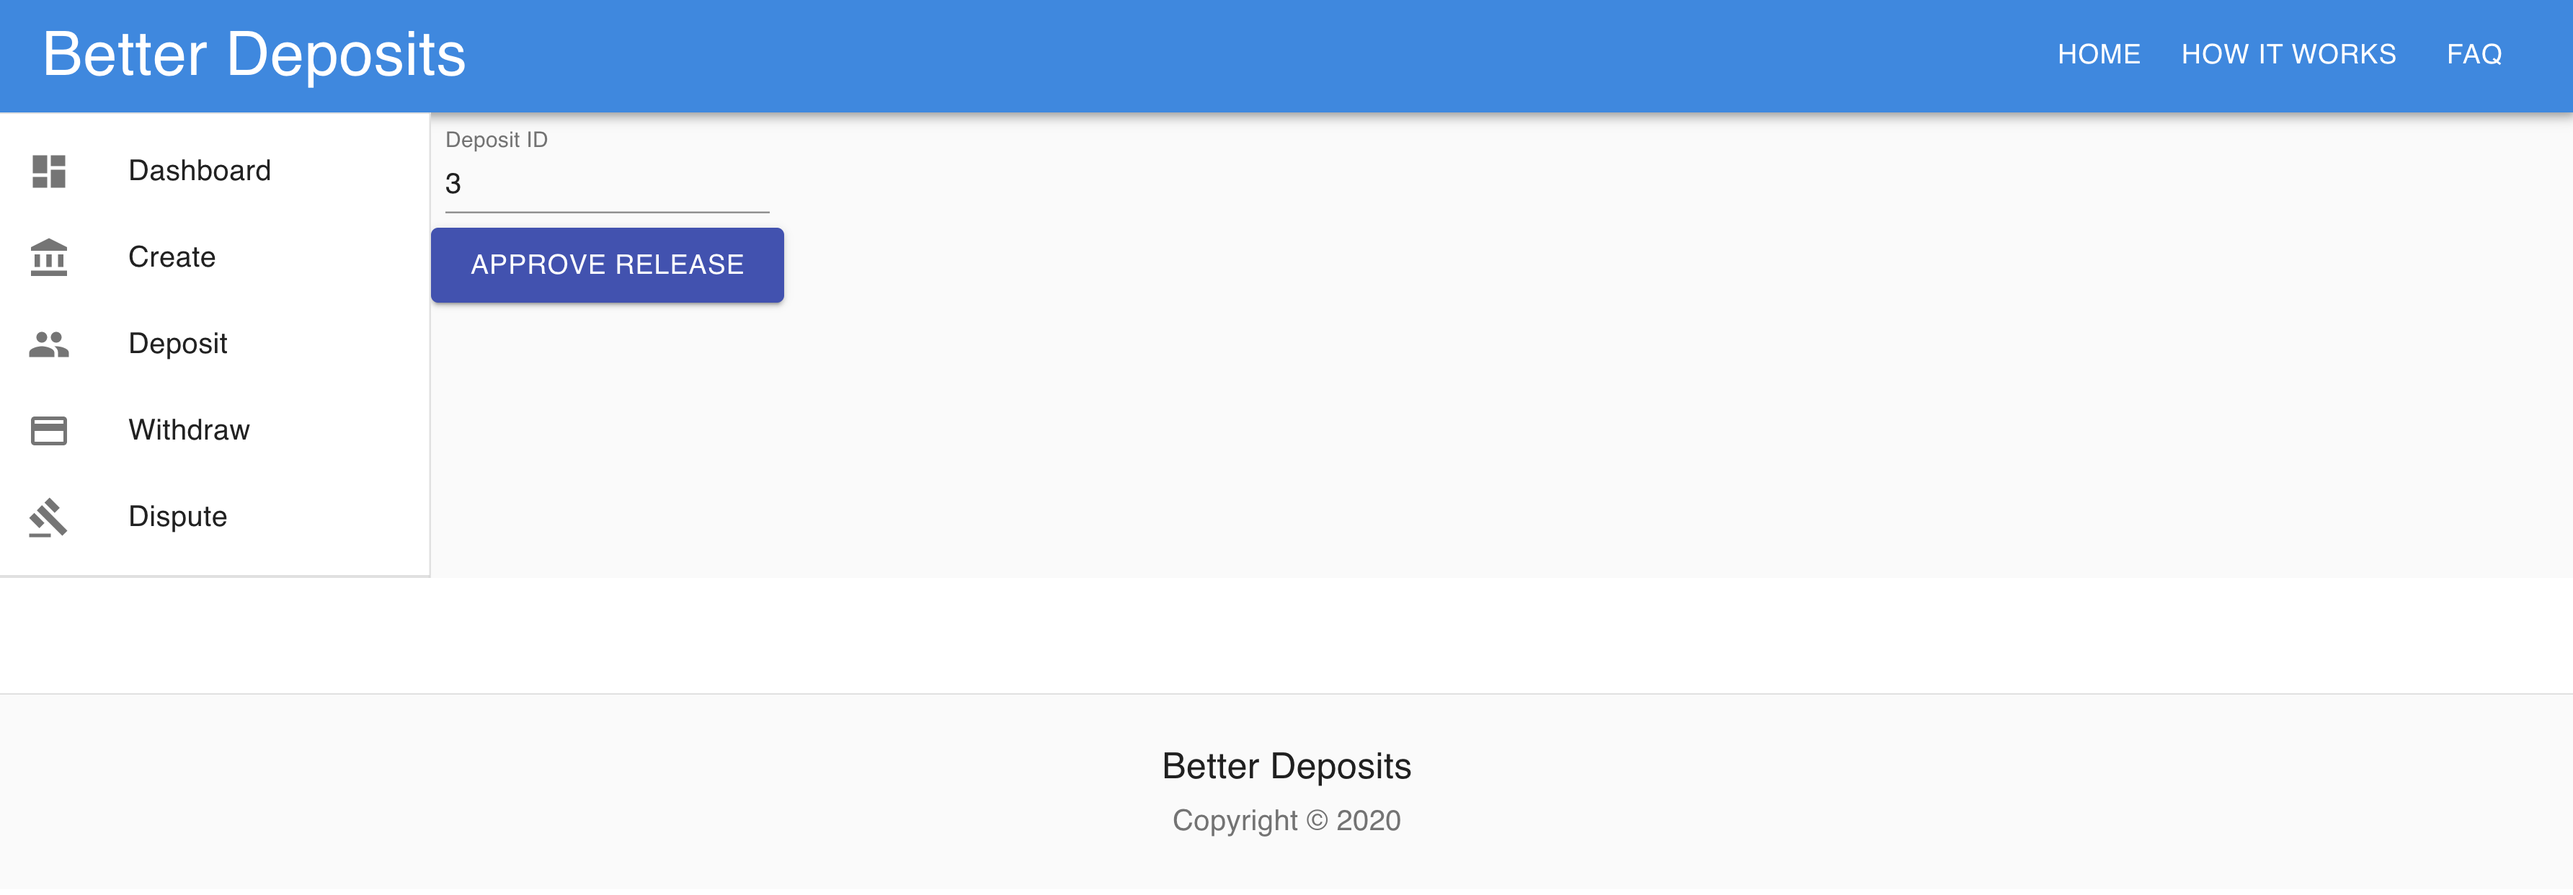
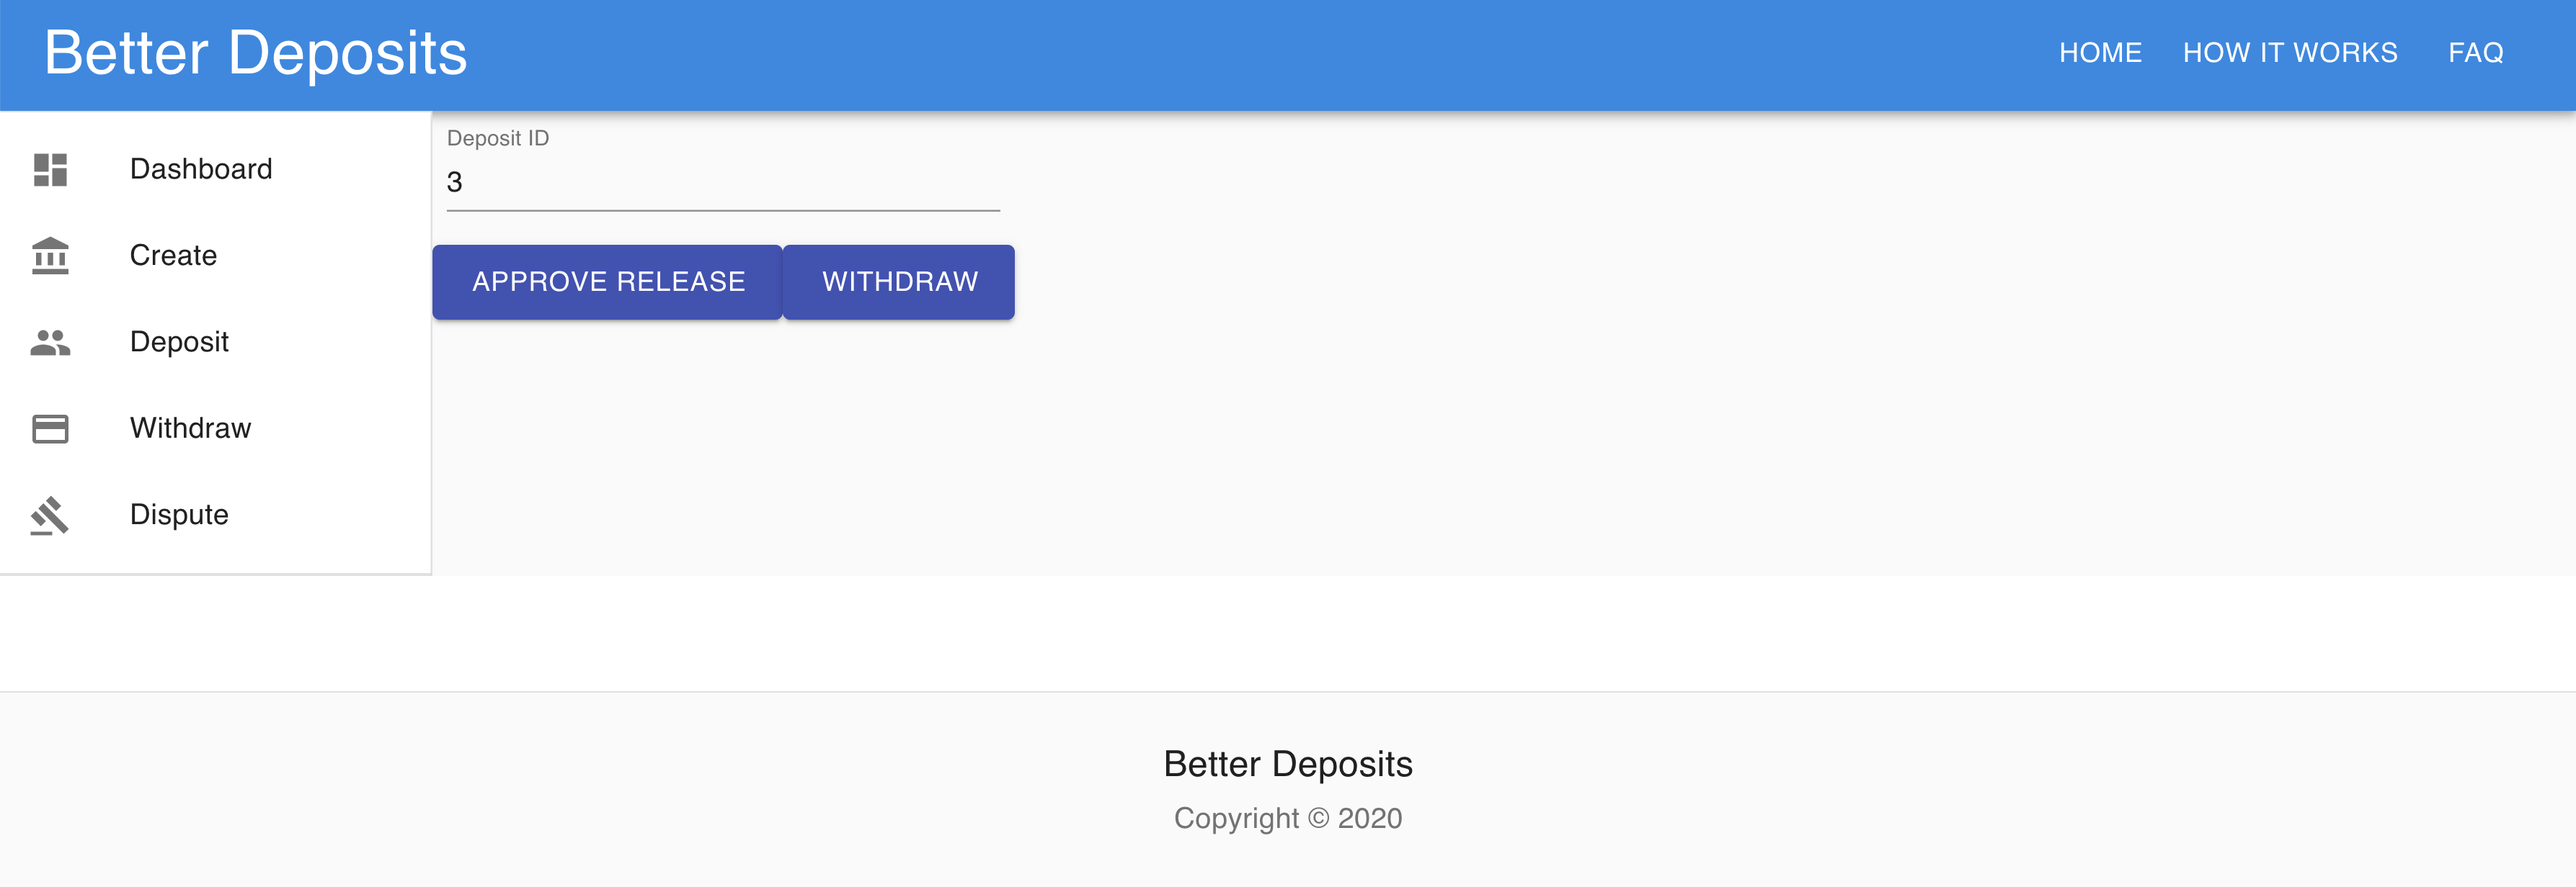
feat: add withdraw deposit functionality

diff --git a/packages/app/src/components/website/getStartedSection/Explainer.tsx b/packages/app/src/components/website/getStartedSection/Explainer.tsx
@@ -18,9 +18,9 @@ export default function GetStarted() {
                   1. Agree escrow
                 </Typography>
                 <Typography variant="body1" color="textSecondary">
-                  Untrusting parties want to make an agreement and escrow funds.
-                  They agree on the terms of the escrow: value, duration, third
-                  party adjudicator.
+                  Two parties (e.g. tenant and landlord) want to make an
+                  agreement and lock up a deposit for a period of time. They
+                  agree on: value, duration, third party adjudicator.
                 </Typography>
               </div>
             </Grid>
@@ -30,8 +30,9 @@ export default function GetStarted() {
                   2. Deposit funds into smart contract
                 </Typography>
                 <Typography variant="body1" color="textSecondary">
-                  Deposit escrow funds to the smart contract. Funds are now
-                  locked until the escrow expiry.
+                  Parties transfer the deposit funds to BetterDeposits financial
+                  software - a smart contract. Funds are now locked until the
+                  expiry.
                 </Typography>
               </div>
             </Grid>
@@ -41,7 +42,7 @@ export default function GetStarted() {
                   3. Settle escrow or raise dispute
                 </Typography>
                 <Typography variant="body1" color="textSecondary">
-                  At end of escrow, if parties are happy then deposits are
+                  At end of deposit, if parties are happy then deposits are
                   returned. If not, the nominated third party adjudicator
                   settles the dispute.
                 </Typography>

diff --git a/packages/app/src/components/escrowApp/withdrawal/WithdrawTable.tsx b/packages/app/src/components/escrowApp/withdrawal/WithdrawTable.tsx
@@ -39,6 +39,10 @@ export default function WithdrawalTable({
     escrowContract.approveDepositRelease(escrowId);
   };
 
+  const withdrawDeposit = (escrowId: bigint) => {
+    escrowContract.withdraw(escrowId);
+  };
+
   return (
     <div>
       <div className={classes.root}>
@@ -55,14 +59,34 @@ export default function WithdrawalTable({
         </FormControl>
       </div>
       <Grid container direction="row" justify="center" alignItems="center">
-        <Button
-          variant="contained"
-          color="primary"
-          size="large"
-          onClick={() => approveDepositRelease(escrowId)}
-        >
-          Approve release
-        </Button>
+        <Grid>
+          <Button
+            variant="contained"
+            color="primary"
+            size="large"
+            onClick={() => approveDepositRelease(escrowId)}
+            style={{
+              marginTop: '10px',
+              paddingRight: '20px',
+            }}
+          >
+            Approve release
+          </Button>
+        </Grid>
+        <Grid>
+          <Button
+            variant="contained"
+            color="primary"
+            size="large"
+            onClick={() => withdrawDeposit(escrowId)}
+            style={{
+              marginTop: '10px',
+              paddingRight: '20px',
+            }}
+          >
+            Withdraw
+          </Button>
+        </Grid>
       </Grid>
     </div>
   );

diff --git a/packages/app/src/components/website/productSection/index.tsx b/packages/app/src/components/website/productSection/index.tsx
@@ -1,7 +1,8 @@
 import React from 'react';
 import { useStyles } from '../../useStyles';
-import DashboardImage from './Dashboard.png';
+import DashboardImage from '../../../images/dashboard.png';
 import { Container, Typography, Box } from '@material-ui/core';
+import ImageBox from '../howItWorksSection/ImageBox';
 
 export default function ProductSection() {
   const classes = useStyles();
@@ -13,7 +14,7 @@ export default function ProductSection() {
         </Typography>
       </Box>
       <Container>
-        <img src={DashboardImage} alt="" width="100%" className="center"></img>
+        <ImageBox src={DashboardImage} />
       </Container>
     </div>
   );

diff --git a/packages/app/src/App.tsx b/packages/app/src/App.tsx
@@ -14,7 +14,7 @@ import {
   appRoute,
 } from './routes';
 import './App.css';
-import EscrowApp from './pages/escrowApp/EscrowApp';
+import AppLanding from './pages/website/AppLanding';
 
 function App() {
   return (
@@ -25,7 +25,7 @@ function App() {
         <Route path={howItWorksRoute} exact component={Technology} />
         <Route path={faqRoute} exact component={FAQ} />
         <Route path={questionnaireRoute} exact component={Questionnaire} />
-        <Route path={appRoute} exact component={EscrowApp} />
+        <Route path={appRoute} exact component={AppLanding} />
       </Switch>
       <BottomSection />
     </Router>

diff --git a/packages/app/src/components/website/howItWorksSection/InfoCard.tsx b/packages/app/src/components/website/howItWorksSection/InfoCard.tsx
@@ -1,7 +1,5 @@
 import React from 'react';
 import { makeStyles } from '@material-ui/core/styles';
-import Card from '@material-ui/core/Card';
-import CardContent from '@material-ui/core/CardContent';
 import Typography from '@material-ui/core/Typography';
 import { Box } from '@material-ui/core';
 
